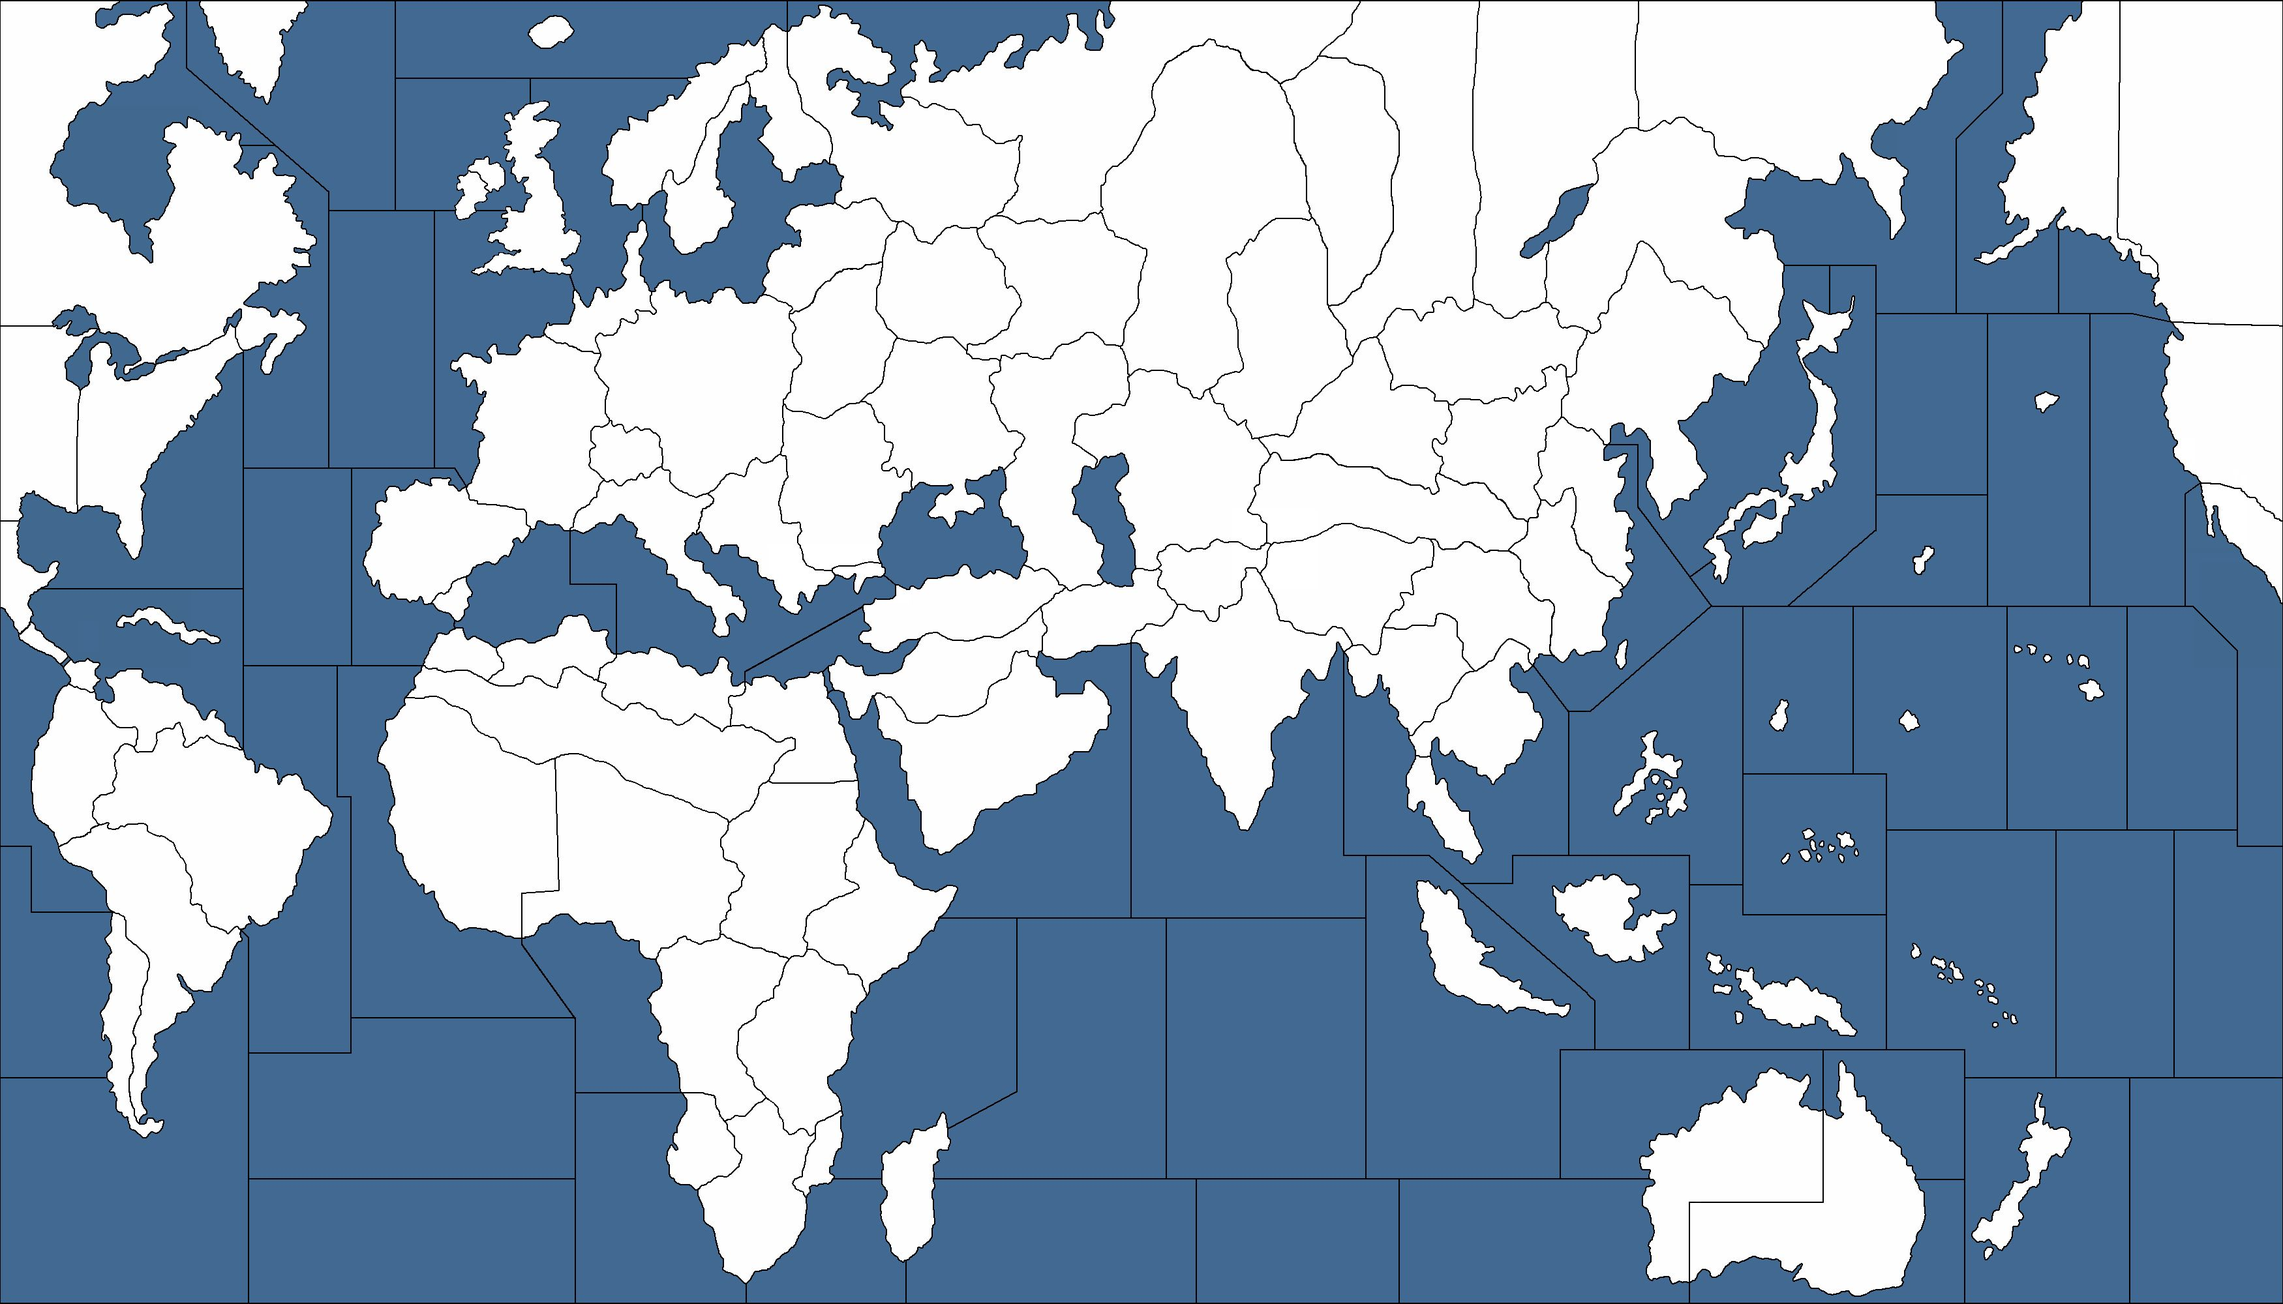
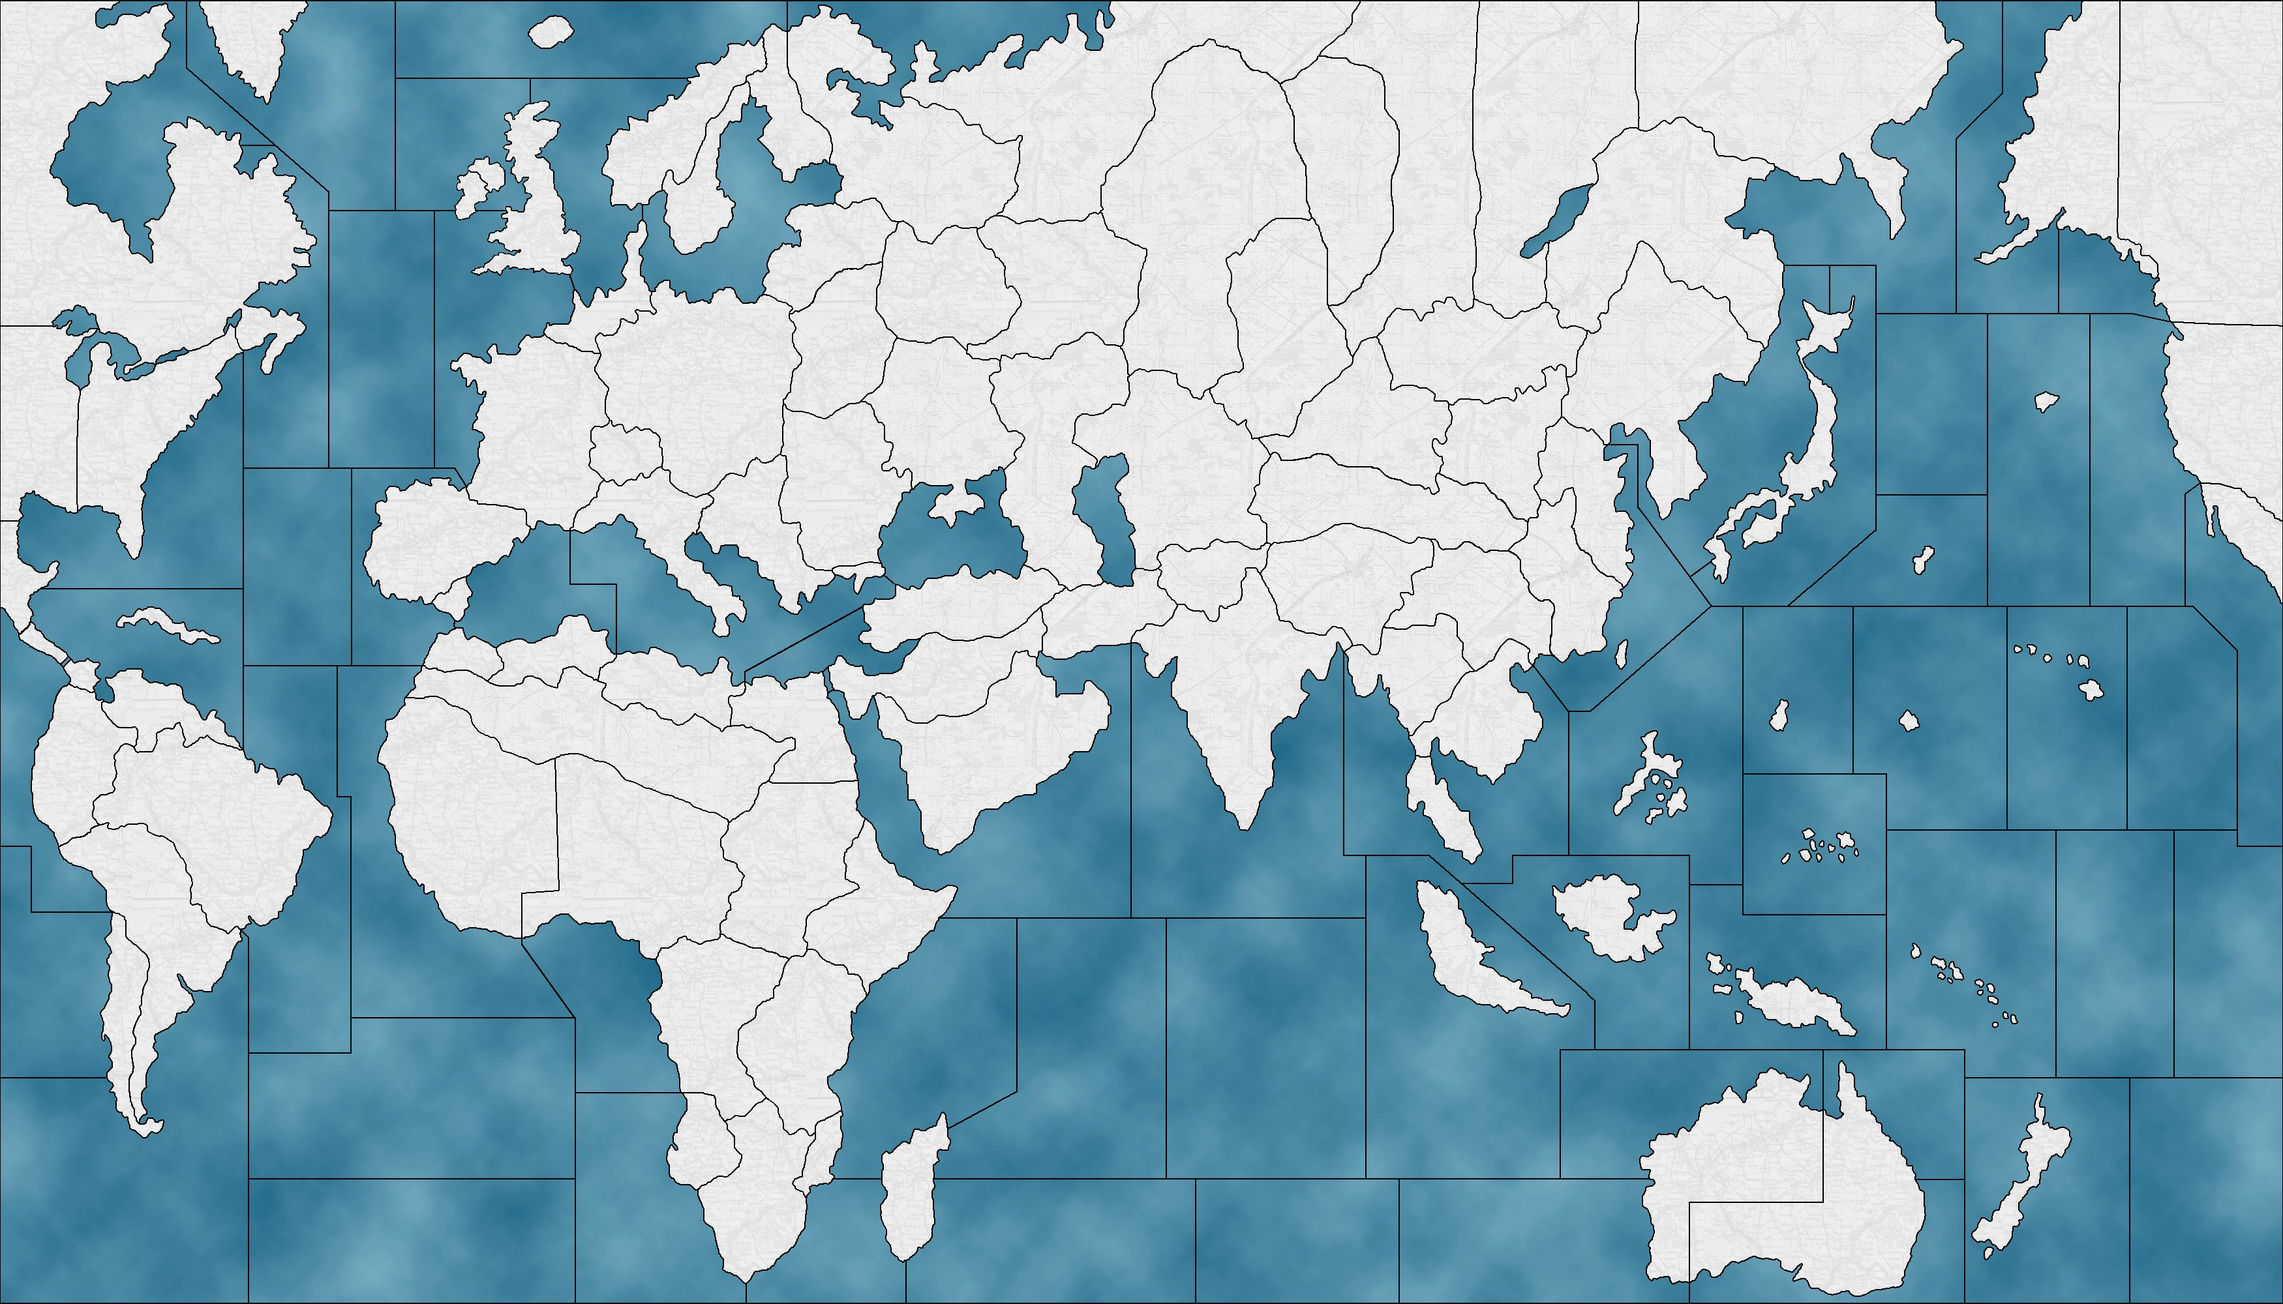
Official power colors, labels above chits, full-board fit

diff --git a/ui/main.ts b/ui/main.ts
@@ -1,8 +1,10 @@
-import { MAP, NAVAL_UNIT_TYPES, UNITS, activeMapId, airDistance, centroid, ipcOf, neighborsOf, pointInPolygon, setActiveMap, type MapId, type TerritoryDef, type UnitType } from '../data/data';
+import { MAP, NAVAL_UNIT_TYPES, UNITS, activeMapId, airDistance, boardTintHex, canalBetween, centroid, ipcOf, neighborsOf, pointInPolygon, setActiveMap, type MapId, type TerritoryDef, type UnitType } from '../data/data';
 import boardUrl from './board-1942.jpg';
 import { playIntro } from './intro';
 import {
   autoCasualties,
+  canalEdgeOpen,
+  capitalsOf,
   chooseCasualties,
   combatMove,
   countAir,
@@ -362,13 +364,13 @@ function boot(): void {
   );
   map.addEventListener('dblclick', (e) => {
     e.preventDefault();
-    view = { x: 0, y: 0, k: 1 };
+    view = homeView();
     applyView();
   });
   $('zin').addEventListener('click', () => zoomOnPoint({ x: VB_W / 2, y: VB_H / 2 }, 1.25));
   $('zout').addEventListener('click', () => zoomOnPoint({ x: VB_W / 2, y: VB_H / 2 }, 1 / 1.25));
   $('zreset').addEventListener('click', () => {
-    view = { x: 0, y: 0, k: 1 };
+    view = homeView();
     applyView();
   });
 
@@ -561,6 +563,25 @@ let VB_H = 470;
 let view = { x: 0, y: 0, k: 1 };
 let syncedViewBox = '';
 
+/** Board-space fit: the 1942 board's edge labels (Central America at
+ *  x=10, the United States names at both wrap edges, sz21 at the bottom)
+ *  are authored ON the board edge and their text overflows the 3500x2000
+ *  frame, so an exact 1:1 fit clips them at the panel edge. The home view
+ *  therefore fits the board at 93%, centered — the whole board plus its
+ *  edge text sits inside the panel, letterboxed by the ocean backdrop.
+ *  Other maps home at exactly 1:1 (their labels stay inside the frame). */
+const BOARD_FIT_K = 0.93;
+
+function homeView(): { x: number; y: number; k: number } {
+  if (!isBoardSpace()) return { x: 0, y: 0, k: 1 };
+  const k = BOARD_FIT_K;
+  return { x: (VB_W - VB_W * k) / 2, y: (VB_H - VB_H * k) / 2, k };
+}
+
+function minZoom(): number {
+  return isBoardSpace() ? BOARD_FIT_K : 1;
+}
+
 /** Pull VB_W/VB_H + the #map viewBox attribute from the active MAP.
  *  Called at init and whenever a game starts/restarts (and at the top
  *  of renderMap, which covers the AI-driver and load-game paths).
@@ -582,7 +603,7 @@ function syncFromMap(): void {
   }
   if (dimsChanged) {
     syncedViewBox = key;
-    view = { x: 0, y: 0, k: 1 };
+    view = homeView();
     if (document.getElementById('vport')) applyView();
   }
 }
@@ -776,6 +797,10 @@ function seaTile(
   g.appendChild(tip);
   const pts = t.points.map((p) => p.join(',')).join(' ');
   const ownerHex = st.owner === null ? '#7fb3d9' : PLAYER_COLORS[st.owner % PLAYER_COLORS.length];
+  // Board space: controlled waters tint with the occupying seat's
+  // official nation color (subtler than land — see the board-mode CSS);
+  // open waters keep the pale blue.
+  const boardHex = st.owner === null ? '#7fb3d9' : boardTintHex(t, st.owner);
   let cls = 'terr sea';
   if (tid === sel) cls += ' selfrom';
   else if (isDest) cls += ' dest';
@@ -783,10 +808,10 @@ function seaTile(
   const attrs: Record<string, string> = {
     points: pts,
     // Board space: the artwork is the water — the polygon is an
-    // interaction layer carrying only a faint owner tint (its
-    // fill-opacity is set by the #map.board-mode CSS).
-    fill: isBoardSpace() ? ownerHex : '#2e5a7d',
-    stroke: ownerHex,
+    // interaction layer carrying the owner tint (its fill-opacity is
+    // set by the #map.board-mode CSS).
+    fill: isBoardSpace() ? boardHex : '#2e5a7d',
+    stroke: isBoardSpace() ? boardHex : ownerHex,
     'stroke-width': st.owner === null ? '1.5' : '2.5',
   };
   if (st.owner === null) attrs['stroke-dasharray'] = '7 4';
@@ -818,13 +843,19 @@ function terrTile(s: GameState, tid: string, inBattle: boolean, isDest: boolean)
   const pts = t.points.map((p) => p.join(',')).join(' ');
   const ownerHex = st.owner === null ? '#6e6e6a' : PLAYER_COLORS[st.owner % PLAYER_COLORS.length];
   const board = isBoardSpace();
+  // Board space: the tint IS the territory's color on the printed board —
+  // the official color of the nation holding it (data.ts boardTintHex:
+  // original nation's color while its own seat holds it, the capturer's
+  // lead nation after a capture, cream for neutrals), at the solid
+  // fill-opacity set by the board-mode CSS.
+  const boardHex = boardTintHex(t, st.owner);
   const base = svgEl('polygon', {
     points: pts,
-    // Board space: transparent interaction layer over the board JPEG —
-    // owner color only, at the low fill-opacity set by the board-mode
-    // CSS. America keeps its parchment base + tint wash below.
-    fill: board ? ownerHex : 'var(--paper, #c9b98a)',
-    stroke: ownerHex,
+    // Board space: interaction layer over the board JPEG carrying the
+    // official-color control tint. America keeps its parchment base +
+    // tint wash below.
+    fill: board ? boardHex : 'var(--paper, #c9b98a)',
+    stroke: board ? boardHex : ownerHex,
     'stroke-width': '2',
   });
   let cls = 'terr';
@@ -843,8 +874,8 @@ function terrTile(s: GameState, tid: string, inBattle: boolean, isDest: boolean)
     g.appendChild(
       svgEl('polygon', {
         points: epts,
-        fill: board ? ownerHex : 'var(--paper, #c9b98a)',
-        stroke: ownerHex,
+        fill: board ? boardHex : 'var(--paper, #c9b98a)',
+        stroke: board ? boardHex : ownerHex,
         'stroke-width': '2',
         class: cls,
         'data-owner': st.owner === null ? 'null' : String(st.owner),
@@ -978,33 +1009,47 @@ function boardNameSize(name: string): number {
   return 34;
 }
 
-/** Board-space labels. TripleA's base artwork prints NO territory names
- *  or sea-zone numbers (TripleA draws that text itself from
- *  name_place.txt), so board mode renders the names here, at the
+/** Board-space labels, in two layers. TripleA's base artwork prints NO
+ *  territory names or sea-zone numbers (TripleA draws that text itself
+ *  from name_place.txt), so board mode renders the names here, at the
  *  name_place anchors (t.nameLabel): land names in dark ink with a
  *  light halo, the IPC value on a smaller second line, and sea zones
  *  as a bare zone number in light text. What renders at the territory's
  *  label point is the dynamic state the artwork cannot know: unit
  *  icons + counts (land and sea) and the factory indicator. Icon rows
- *  are scaled up (BOARD_SCALE) because board coordinates are ~3.5x the
- *  America map's — unscaled 15px chits would be unreadable at
+ *  are scaled up (BOARD_UNIT_SCALE) because board coordinates are ~3.5x
+ *  the America map's — unscaled 15px chits would be unreadable at
  *  full-board zoom. Sea zones also keep their dynamic aux lines
  *  (cargo, carrier capacity, coexisting forces), which are game state,
- *  not artwork. */
+ *  not artwork.
+ *
+ *  Layering: renderMap draws every territory's MARKERS (unit chits,
+ *  factory badge, sea aux lines) first and every territory's NAMES in a
+ *  second pass, so a name is never painted under a neighboring stack.
+ *  The handful of names whose anchor still sits directly on their own
+ *  stack carry a data-driven `nameNudge` (build script's NAME_NUDGES
+ *  table) that moves them into open space. Both layers are
+ *  pointer-events: none. */
 const BOARD_UNIT_SCALE = 3;
-function boardLabels(
+
+/** Name layer (drawn last, above all unit chits): the territory name +
+ *  IPC line, or the sea-zone number, at the name_place anchor plus the
+ *  territory's optional nameNudge. */
+function boardNames(
   s: GameState, tid: string, inBattle: boolean, lx: number, ly: number,
 ): SVGElement {
   const t = MAP.territories.find((x) => x.id === tid)!;
-  const st = s.territories[tid];
   const g = svgEl('g', {
     class: t.domain === 'sea' ? 'tlabels sealabels boardlabels' : 'tlabels boardlabels',
     'data-terr': tid,
     'pointer-events': 'none',
   });
   // Name text at the name_place anchor (falls back to the label point
-  // for any map that predates nameLabel).
-  const [nx, ny] = t.nameLabel ?? [lx, ly];
+  // for any map that predates nameLabel), shifted by the optional
+  // data-driven nudge for stack-collision territories.
+  const [ax, ay] = t.nameLabel ?? [lx, ly];
+  const nx = ax + (t.nameNudge?.[0] ?? 0);
+  const ny = ay + (t.nameNudge?.[1] ?? 0);
   if (t.domain === 'sea') {
     const num = svgEl('text', {
       x: String(nx),
@@ -1040,6 +1085,23 @@ function boardLabels(
       g.appendChild(ip);
     }
   }
+  return g;
+}
+
+/** Marker layer (drawn before the name layer): unit icon row + counts
+ *  at the centers.txt label point, the factory badge, and — for sea
+ *  zones — the dynamic aux lines (cargo, carrier capacity, coexisting
+ *  forces). */
+function boardMarkers(
+  s: GameState, tid: string, inBattle: boolean, lx: number, ly: number,
+): SVGElement {
+  const t = MAP.territories.find((x) => x.id === tid)!;
+  const st = s.territories[tid];
+  const g = svgEl('g', {
+    class: t.domain === 'sea' ? 'tlabels sealabels boardmarkers' : 'tlabels boardmarkers',
+    'data-terr': tid,
+    'pointer-events': 'none',
+  });
   const present = UNIT_ORDER.filter((u) => st.units[u] > 0);
   let below = ly;
   if (present.length > 0) {
@@ -1112,7 +1174,7 @@ function terrLabels(
   if (t.domain === 'sea') return seaLabels(s, tid, t, st, inBattle, lx, ly);
   const bb = bboxOf(t.points);
   const g = svgEl('g', { class: 'tlabels', 'data-terr': tid, 'pointer-events': 'none' });
-  const isCap = s.players.some((p) => p.capital === tid);
+  const isCap = s.players.some((p) => capitalsOf(s, p.id).includes(tid));
 
   // Name + owner stacked on the label anchor, with breathing room below the IPC lozenge.
   const name = svgEl('text', {
@@ -1287,15 +1349,24 @@ function renderMap(s: GameState): void {
 
   // Layer 3: labels, badges, unit icons — above water.
   // Board space renders name text at the name_place anchors (the
-  // artwork prints none) plus the dynamic markers (units + factory).
+  // artwork prints none) plus the dynamic markers (units + factory),
+  // in two passes: all markers first, then all names, so names are
+  // never painted under a neighboring territory's unit stack.
   const layout = layoutLabels();
-  for (const t of MAP.territories) {
-    const p = layout.get(t.id)!;
-    vport.appendChild(
-      board
-        ? boardLabels(s, t.id, battles.has(t.id), p.x, p.y)
-        : terrLabels(s, t.id, battles.has(t.id), p.x, p.y),
-    );
+  if (board) {
+    for (const t of MAP.territories) {
+      const p = layout.get(t.id)!;
+      vport.appendChild(boardMarkers(s, t.id, battles.has(t.id), p.x, p.y));
+    }
+    for (const t of MAP.territories) {
+      const p = layout.get(t.id)!;
+      vport.appendChild(boardNames(s, t.id, battles.has(t.id), p.x, p.y));
+    }
+  } else {
+    for (const t of MAP.territories) {
+      const p = layout.get(t.id)!;
+      vport.appendChild(terrLabels(s, t.id, battles.has(t.id), p.x, p.y));
+    }
   }
 
   // Draft-move arrows above the tiles.
@@ -1376,9 +1447,9 @@ function svgPoint(clientX: number, clientY: number): { x: number; y: number } {
 }
 
 function zoomOnPoint(p: { x: number; y: number }, factor: number): void {
-  const k2 = Math.min(6, Math.max(1, view.k * factor));
-  if (k2 === 1) {
-    view = { x: 0, y: 0, k: 1 };
+  const k2 = Math.min(6, Math.max(minZoom(), view.k * factor));
+  if (k2 === minZoom()) {
+    view = homeView();
   } else {
     view = {
       x: p.x - ((p.x - view.x) * k2) / view.k,
@@ -1395,10 +1466,17 @@ function legalDestinations(s: GameState): Set<string> {
   if (!sel || s.phase === 'gameover') return out;
   if (s.territories[sel].owner !== s.currentPlayer) return out;
   const pid = s.currentPlayer;
+  const from = sel;
+  // A closed canal edge is not a legal destination highlight either
+  // (canalBetween is undefined for ordinary edges and for maps without
+  // canals, so this only bites on the 1942 board's two canal edges).
+  const canalShut = (n: string): boolean =>
+    !!canalBetween(from, n) && !canalEdgeOpen(s.territories, from, n, pid);
   if (s.phase === 'combatMove') {
-    for (const n of neighborsOf(sel)) out.add(n);
+    for (const n of neighborsOf(sel)) if (!canalShut(n)) out.add(n);
   } else if (s.phase === 'nonCombat') {
     for (const n of neighborsOf(sel)) {
+      if (canalShut(n)) continue;
       const o = s.territories[n].owner;
       // Friendly waters (empty or yours) are legal naval destinations.
       if (s.territories[n] && MAP.territories.find((t) => t.id === n)?.domain === 'sea') {
@@ -1587,7 +1665,8 @@ function renderInspector(s: GameState): void {
   const mine = t.owner === s.currentPlayer;
   const head = document.createElement('div');
   head.className = 'insp-head';
-  const isCap = s.players.some((p) => p.capital === sel);
+  const selId = sel;
+  const isCap = selId !== null && s.players.some((p) => capitalsOf(s, p.id).includes(selId));
   const ownerLabel =
     t.owner === null ? (def.domain === 'sea' ? 'open waters' : 'neutral') : s.players[t.owner].name;
   head.innerHTML =
@@ -1815,9 +1894,15 @@ function seaMoveDialogBody(
     // transit is barred but the destination itself may be hostile —
     // 1942 2e p.27; the engine applies the exact per-unit rules,
     // including submarine/destroyer exceptions, when moves launch).
+    // Canal edges (Panama, Suez) are offered only while the canal is
+    // open to this seat — the same canalEdgeOpen rule the engine
+    // validates with, so the dialog never offers a route the engine
+    // would reject as canal_closed.
     const destSet = new Set(
       neighborsOf(tid).filter(
-        (n) => MAP.territories.find((x) => x.id === n)?.domain === 'sea',
+        (n) =>
+          MAP.territories.find((x) => x.id === n)?.domain === 'sea' &&
+          canalEdgeOpen(s.territories, tid, n, pid),
       ),
     );
     const hostileZone = (z: string): boolean => {
@@ -1827,7 +1912,12 @@ function seaMoveDialogBody(
     for (const n1 of [...destSet]) {
       if (hostileZone(n1)) continue;
       for (const n2 of neighborsOf(n1)) {
-        if (MAP.territories.find((x) => x.id === n2)?.domain === 'sea') destSet.add(n2);
+        if (
+          MAP.territories.find((x) => x.id === n2)?.domain === 'sea' &&
+          canalEdgeOpen(s.territories, n1, n2, pid)
+        ) {
+          destSet.add(n2);
+        }
       }
     }
     const dests = [...destSet];

diff --git a/ui/style.css b/ui/style.css
@@ -639,29 +639,42 @@ input::placeholder { color: var(--faint); }
 
 /* ---------- 1942 board-space mode ----------
    The board JPEG (ui/board-1942.jpg, rendered as the first child of
-   #vport) is the terrain artwork. Territory polygons are only an
-   interaction layer over it: near-transparent owner tint normally,
-   with the stroke/highlight states doing the talking. The .board-mode
-   class is set on #map by syncFromMap() in ui/main.ts whenever the
-   active map has boardSpace: true; America rendering is untouched. */
+   #vport) is the terrain artwork. Territory polygons over it carry the
+   official power color of the holding nation (near-solid on land,
+   a wash at sea) so controlled territory reads like the printed
+   board, with the stroke/highlight states doing the talking. The
+   .board-mode class is set on #map by syncFromMap() in ui/main.ts
+   whenever the active map has boardSpace: true; America rendering is
+   untouched. */
 #map.board-mode .board-art { pointer-events: none; }
+/* Land carries the official nation color (ui/main.ts boardTintHex) at
+   near-board strength: the printed board's territories ARE their power
+   colors, so the tint is close to solid and the pale base art only
+   textures it. Sea zones wear the same palette at a lighter wash so
+   controlled waters read as tinted, not painted. */
 #map.board-mode polygon.terr {
-  fill-opacity: 0.16;
+  fill-opacity: 0.75;
   stroke-width: 2.5;
 }
+#map.board-mode polygon.terr.sea {
+  fill-opacity: 0.38;
+}
 #map.board-mode polygon.terr:hover {
-  fill-opacity: 0.3;
+  fill-opacity: 0.85;
   stroke: #fff;
   stroke-width: 4;
 }
+#map.board-mode polygon.terr.sea:hover {
+  fill-opacity: 0.5;
+}
 #map.board-mode polygon.terr.selfrom {
-  fill-opacity: 0.28;
+  fill-opacity: 0.85;
   stroke: #fff;
   stroke-width: 5;
   filter: drop-shadow(0 0 10px rgba(255, 255, 255, 0.7));
 }
 #map.board-mode polygon.terr.dest {
-  fill-opacity: 0.28;
+  fill-opacity: 0.85;
   stroke: #ffd23e;
   stroke-width: 5;
   stroke-dasharray: 16 9;
